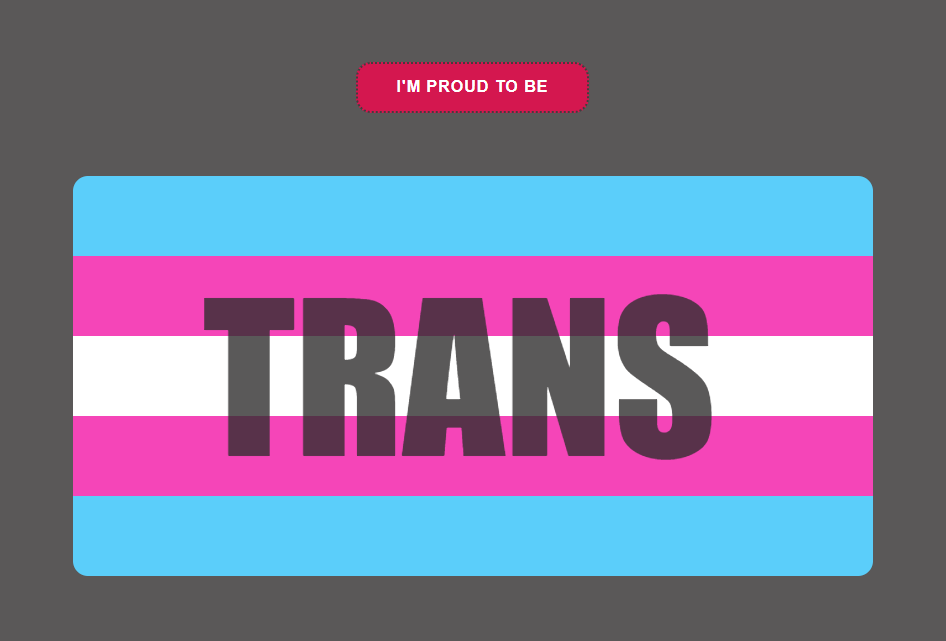
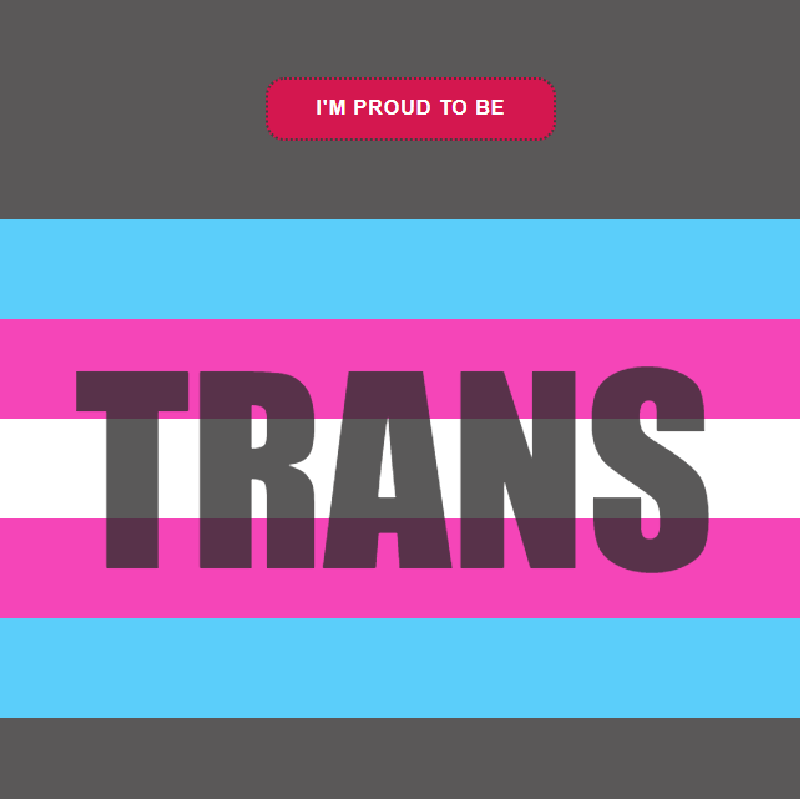
correção da imagem de metadados

diff --git a/cores.html b/cores.html
@@ -7,7 +7,7 @@
         <meta property="og:title" content="Be proud!">
         <meta property="og:description" content="Get colors with pride.">
         <meta property="og:type" content="article">
-        <meta property="og:url" content="https://i.ibb.co/r7rpMGH/pride-metadados.png">
+        <meta property="og:url" content="https://i.ibb.co/SNFWtWk/pride-metadados.png">
         <meta property="og:image" content="">
         <meta property="og:image:width" content="300">
         <meta property="og:image:height" content="300">
